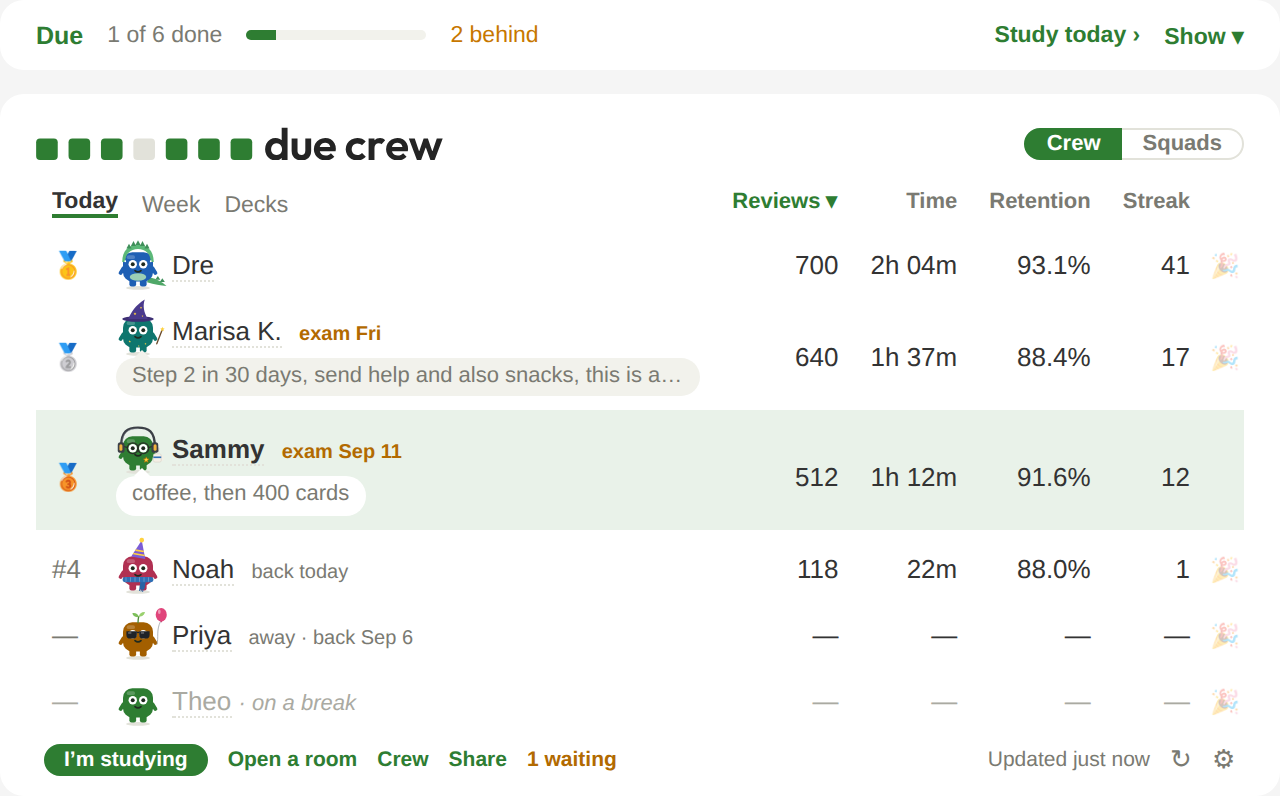
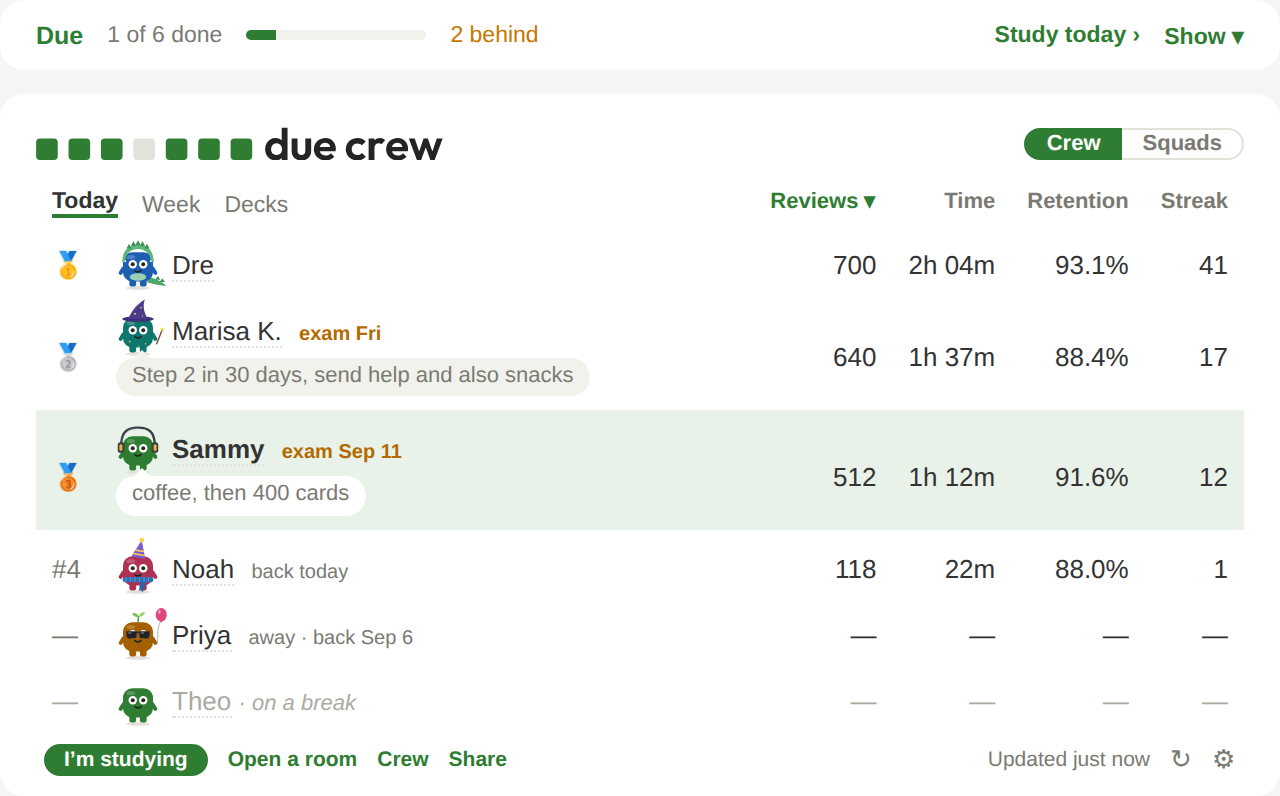
Release prep: README's cheer line and board picture, a short click-test pass
- README: the Cheer pill (not a 🎉 column), drawings, room sounds;
  board.png re-rendered without the 🎉 column (?v=8)
- tools/readme_images.py + .js render board.png from the board itself
- manual checklist: a 15-minute pass over what only a live Anki shows

Claude-Session: https://claude.ai/code/session_01T9RYS9itCJ3KTL7nGa5aCe

diff --git a/tools/readme_images.js b/tools/readme_images.js
@@ -1,0 +1,16 @@
+// Screenshot tools/readme_board.html (tools/readme_images.py writes it) to
+// docs/images/board.png at twice its size, Pips still (Reduce motion).
+//     node tools/readme_images.js      (CHROMIUM=/path/to/chrome if Playwright's own isn't there)
+const path = require("path");
+const { chromium } = require("playwright");
+
+(async () => {
+  const browser = await chromium.launch(process.env.CHROMIUM ? { executablePath: process.env.CHROMIUM } : {});
+  const page = await browser.newPage({ viewport: { width: 700, height: 1000 }, deviceScaleFactor: 2 });
+  await page.emulateMedia({ reducedMotion: "reduce" });
+  await page.goto("file://" + path.join(__dirname, "readme_board.html"));
+  await page.waitForTimeout(400);
+  await (await page.$("#shot")).screenshot({ path: path.join(__dirname, "..", "docs", "images", "board.png") });
+  await browser.close();
+  console.log("wrote docs/images/board.png");
+})();

diff --git a/tools/readme_images.py b/tools/readme_images.py
@@ -1,0 +1,54 @@
+"""Render the README's board picture (docs/images/board.png) from the
+add-on's own board: a sample crew in their colours and looks, your day
+folded above it. CLAUDE.md: the README's images are renders of the board,
+re-rendered when it changes.
+
+    python3 tools/readme_images.py            # writes tools/readme_board.html
+    node tools/readme_images.js               # screenshots it to docs/images/board.png
+
+(The second step needs Playwright; the first is enough to look at it.)"""
+
+import datetime
+import os
+import runpy
+
+HERE = os.path.dirname(os.path.abspath(__file__))
+P = runpy.run_path(os.path.join(HERE, "preview.py"), run_name="readme")  # its sample data, Due and plans
+board, L, day, ago = P["board"], P["L"], P["day"], P["ago"]
+
+TODAY = datetime.date.fromisoformat(L[0])
+CREW = [
+    {"user_id": "dre", "name": "Dre", "accent": "blue", "look": ["dino"],
+     "days": {lb: day(700 + i * 30, 7440000, 93.1, 41 - i) for i, lb in enumerate(L)}},
+    {"user_id": "marisa", "name": "Marisa K.", "accent": "teal", "look": ["wizard"],
+     "exam_date": (TODAY + datetime.timedelta(days=3)).isoformat(),
+     "days": {L[0]: dict(day(640, 5820000, 88.4, 17), status="Step 2 in 30 days, send help and also snacks")}},
+    {"user_id": "sam", "name": "Sammy", "you": True, "accent": "green", "look": ["headphones"],
+     "exam_date": (TODAY + datetime.timedelta(days=10)).isoformat(),
+     "days": {L[0]: dict(day(512, 4320000, 91.6, 12), status="coffee, then 400 cards")}},
+    {"user_id": "noah", "name": "Noah", "accent": "rose", "look": ["partyhat", "scarf"], "back": True,
+     "days": {L[0]: day(118, 1320000, 88.0, 1)}},
+    {"user_id": "priya", "name": "Priya", "accent": "amber", "look": ["sprout", "shades", "balloon"],
+     "days": {L[0]: {"away": True, "awayTo": (TODAY + datetime.timedelta(days=4)).isoformat()}}},
+    {"user_id": "theo", "name": "Theo", "paused": True, "days": {}},
+]
+for e in CREW:
+    e.setdefault("you", False)
+    e.setdefault("paused", False)
+    e.setdefault("exam_date", "")
+    e.setdefault("decks", [])
+    e.setdefault("last_updated", ago(minutes=4))
+DATA = {"entries": CREW, "labels": L, "tomorrow": P["TOMORROW"], "pending": []}
+
+ME = {"period": "today", "accent": "green", "sev_look": ["headphones"], "sev_closet": {"headphones": L[-1]}}
+html = board.render(DATA, ME, P["now_ts"] - 30,
+                    due=dict(P["_DV"], folded=True), plans=P["PLANS"], you=P["_YOU"]("today", folded=True))
+page = f"""<!doctype html><html><head><meta charset="utf-8"><title>README board</title>
+<style>body {{ margin: 0; padding: 16px; background: #f5f5f5; font-family: -apple-system, sans-serif; }}
+:root {{ --canvas-glass: rgba(255, 255, 255, 0.7); }} .fancy table {{ background: var(--canvas-glass); }}
+#shot {{ width: 640px; }}</style></head>
+<body class="fancy"><center><div id="shot">{html}</div></center></body></html>"""
+out = os.path.join(HERE, "readme_board.html")
+with open(out, "w", encoding="utf-8") as f:
+    f.write(page)
+print("wrote", out)

diff --git a/docs/manual-anki-checklist.md b/docs/manual-anki-checklist.md
@@ -665,6 +665,18 @@ In Anki (as a follower):
 - [ ] Plan ▾ › How its cards open: switch to When I'm ready (a deck with open later cards offers Hold back), and back to the plan's dates (dates passed since ask, as Resume does). duecrew.com's plan page shows "At your pace · next: …" and the same choice; changing it there reaches Anki at its next refresh.
 - [ ] Browse: right-click a tag in the sidebar › Due Crew: open its cards…: the sheet counts what opens, what's open already, the leeches (they stay suspended), and the plans that hold them; Open with First in line ticked puts them first in Anki's new cards; one Edit › Undo shuts them. Pick cards in the table › Due Crew: open these…: the same for just those. Signed out: both are there.
 
+### 3.9.1: the short pass before release (about 15 minutes; the rest of 3.9.1 below as time allows)
+
+The riskiest of 3.9.1, the parts only a live Anki can show, in order:
+
+- [ ] Board clicks after a review (the Decks page's key): study a few cards, go back to Decks, then click Week, a crewmate's name (their card), ↻, ⚙ (Settings), a Due tick. Each works. Then Sync, and click them again. Switch profile and back: again. (If any click does nothing, stop: that's a release blocker.)
+- [ ] The whole window dims: open the Cheer window on a crewmate. The top bar and the bottom bar grey with the board; click the grey top bar: the window closes and the bars clear. Open it again and press S (study): the bars clear on the way out, never stuck grey.
+- [ ] A question on the board: own card › Set a status: a sheet in the board's look (not a Qt box); type, Enter: the status shows on your row. Settings › You › Display name: the same. Settings › Sign out: the sheet, Cancel does nothing; Esc and the backdrop the same.
+- [ ] A question off the board: while reviewing, Ctrl+Shift+Q (Ask the squad) on a plan's card: a Qt box in the board's colours, readable, OK and Cancel work.
+- [ ] The Qt windows: open Friends, Squads and (a plan's ⋯) Pause: board colours, the main button in your accent, ticks and radio dots visible, nothing cut off (Friends' code whole). Settings › Theme › Dark, open Friends again: dark, all readable.
+- [ ] Mac or Windows: Cheer window › "other": the system's emoji picker opens and its pick lands.
+- [ ] Leave Anki on the Decks screen a minute: Pips stop moving after about twelve seconds; the fan quiet (no busy CPU).
+
 ### 3.9.1: cheers, clearer (the pill, the Cheer window)
 
 - [ ] The crew rows: no 🎉 at the end of any row, and no pill anywhere at rest. Point at a crewmate's name: a green "🎉 Cheer" pill shows after it (and after an exam or "studying now" chip); move off the name and it goes. Pointing at their numbers shows nothing. Tab to a name: it shows. Never on your own row. A very long name ends sooner while the pill shows; the pill is never cut off.

diff --git a/README.md b/README.md
@@ -5,7 +5,7 @@
 
 Your friends' studying next to yours, on Anki's Decks screen.
 
-<img alt="The Due Crew board on the Decks screen, your day folded above it" src="https://raw.githubusercontent.com/sammyc2472/due-crew/main/docs/images/board.png?v=7" width="600">
+<img alt="The Due Crew board on the Decks screen, your day folded above it" src="https://raw.githubusercontent.com/sammyc2472/due-crew/main/docs/images/board.png?v=8" width="600">
 
 Studying for a big exam is more fun with friends! Due Crew puts your crew on
 Anki's Decks screen: who's studied today, who's studying now, how far
@@ -15,14 +15,16 @@ add you back. Your cards never leave your computer.
 
 ## Your crew
 
-**Cheers.** Tap 🎉 next to a friend's name and a little show lands on
-their Decks screen, a different one each time, with your note.
+**Cheers.** Point at a friend's name, tap 🎉 Cheer, and a little show
+lands on their Decks screen, a different one each time, with your note.
+Or draw them something: your Pip holds it up, and it stays pinned beside
+their board.
 
 <img alt="A cheer landing" src="https://raw.githubusercontent.com/sammyc2472/due-crew/main/docs/images/flurry.png" width="600">
 
 **Study rooms.** 25-minute rounds with your crew, the timer in Anki's top
 bar, breaks together. Each of you sits in the room as your own Pip, in
-your own colour.
+your own colour. Rain, a fire, waves or brown noise if you like.
 
 <img alt="A study room in Anki's top bar" src="https://raw.githubusercontent.com/sammyc2472/due-crew/main/docs/images/room.png?v=2" width="420">
 

diff --git a/docs/history.md b/docs/history.md
@@ -2409,6 +2409,15 @@ every release that changes how something works.
   Schedule's chart paints in it too. The window's frame stays the
   computer's. Every render in `tools/dialogs.py` was looked at, light and
   dark; Friends is 50px wider for the code and its three buttons.
+- 3.9.1, before release: the README's cheer line said "Tap 🎉 next to a
+  friend's name" and its board picture had the 🎉 column; both follow the
+  pill now, with a line each for drawings and room sounds. board.png is
+  rendered by `tools/readme_images.py` (the board's own HTML, a sample
+  crew in their looks) and `tools/readme_images.js` (Chromium, 2x), so the
+  next change re-renders it in one step. The click-test list starts with a
+  15-minute pass over what only a live Anki shows (the Decks page's key
+  after a review, the bars' shade, sheets, the Qt look, the system emoji
+  picker, Pip at rest).
 - 3.9.1, the efficiency run, the Decks screen (the same ask). Measured with
   a crew of thirteen and a full fridge (twelve drawings at 2,000 points):
   every click that redraws the board (a swap) sent 77 KB of script the page

diff --git a/CLAUDE.md b/CLAUDE.md
@@ -35,7 +35,8 @@ add-on.
   Its images live in `docs/images/` and are linked by full
   raw.githubusercontent.com URLs on `main`, so the same text works on
   AnkiWeb. They're renders of the add-on's own board, overlays and room
-  widget (sample crew), not mockups; re-render them when those change.
+  widget (sample crew), not mockups; re-render them when those change
+  (board.png: `tools/readme_images.py`, then `node tools/readme_images.js`).
 - `docs/logo/` — the logo ("Seven days"), final artwork: never redraw or
   re-typeset it. Green on GitHub; inside the add-on, `due_crew/logo.py`
   colours the studied days with the user's accent: the board's title is
